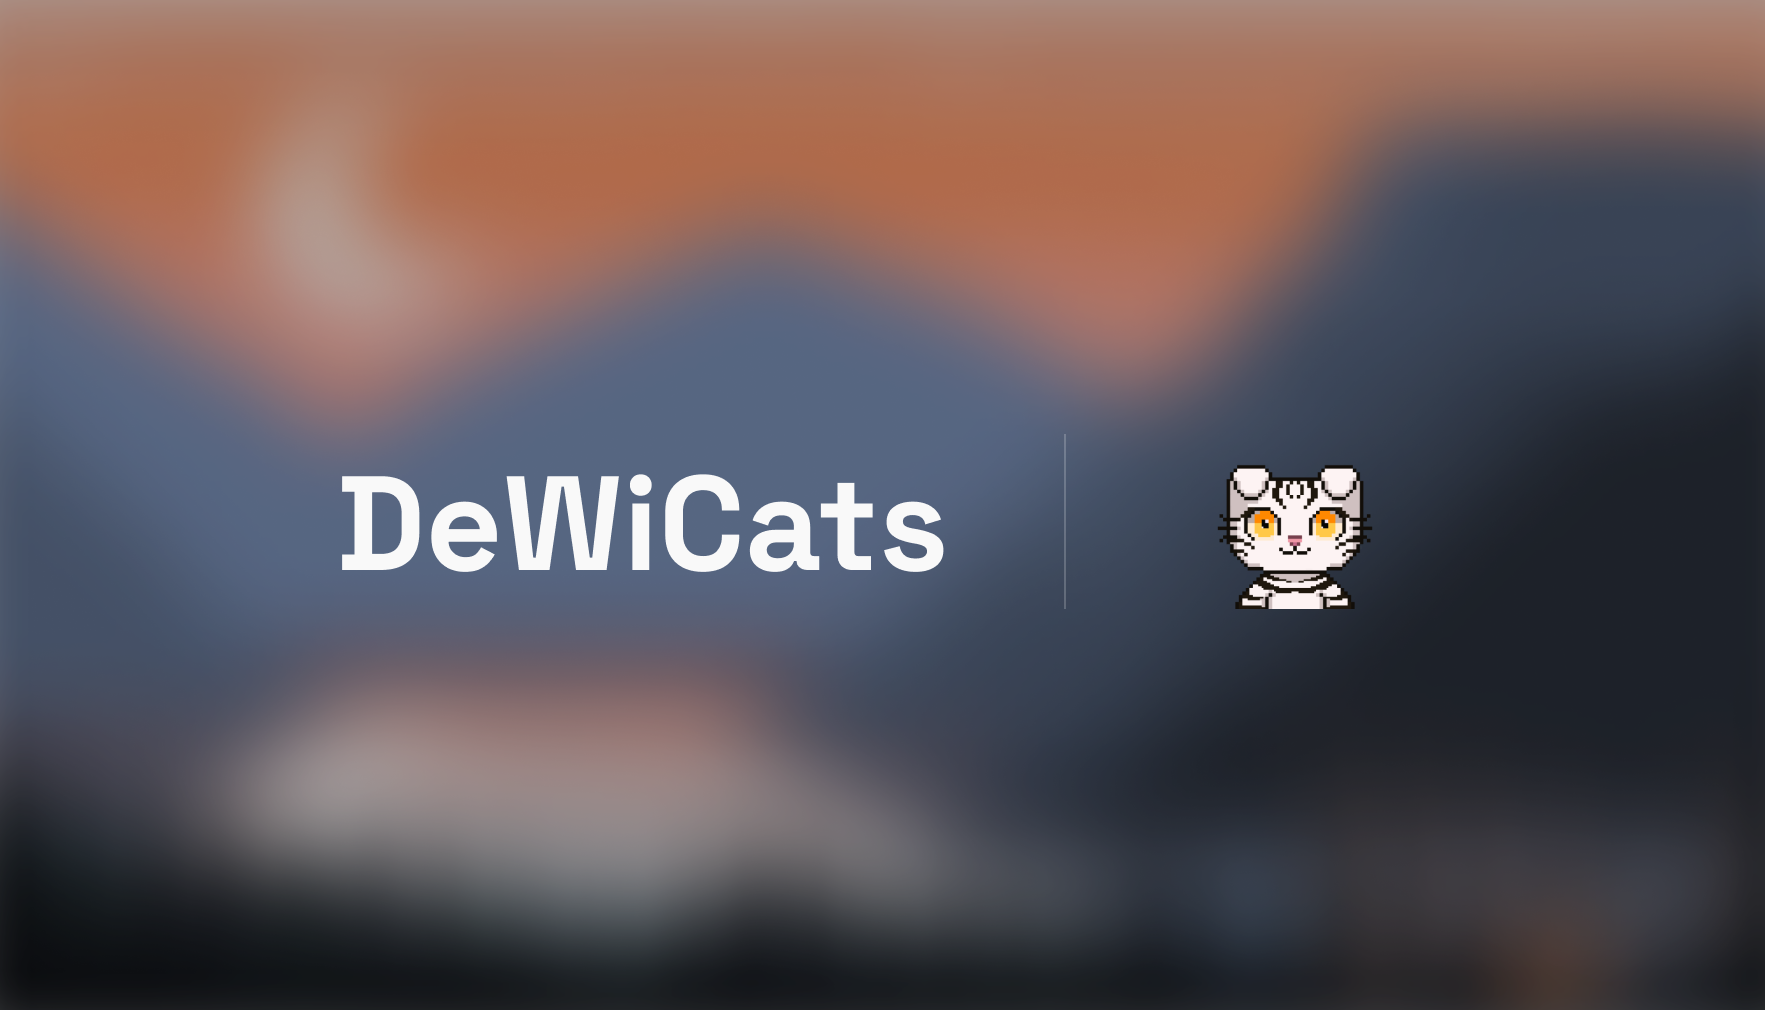
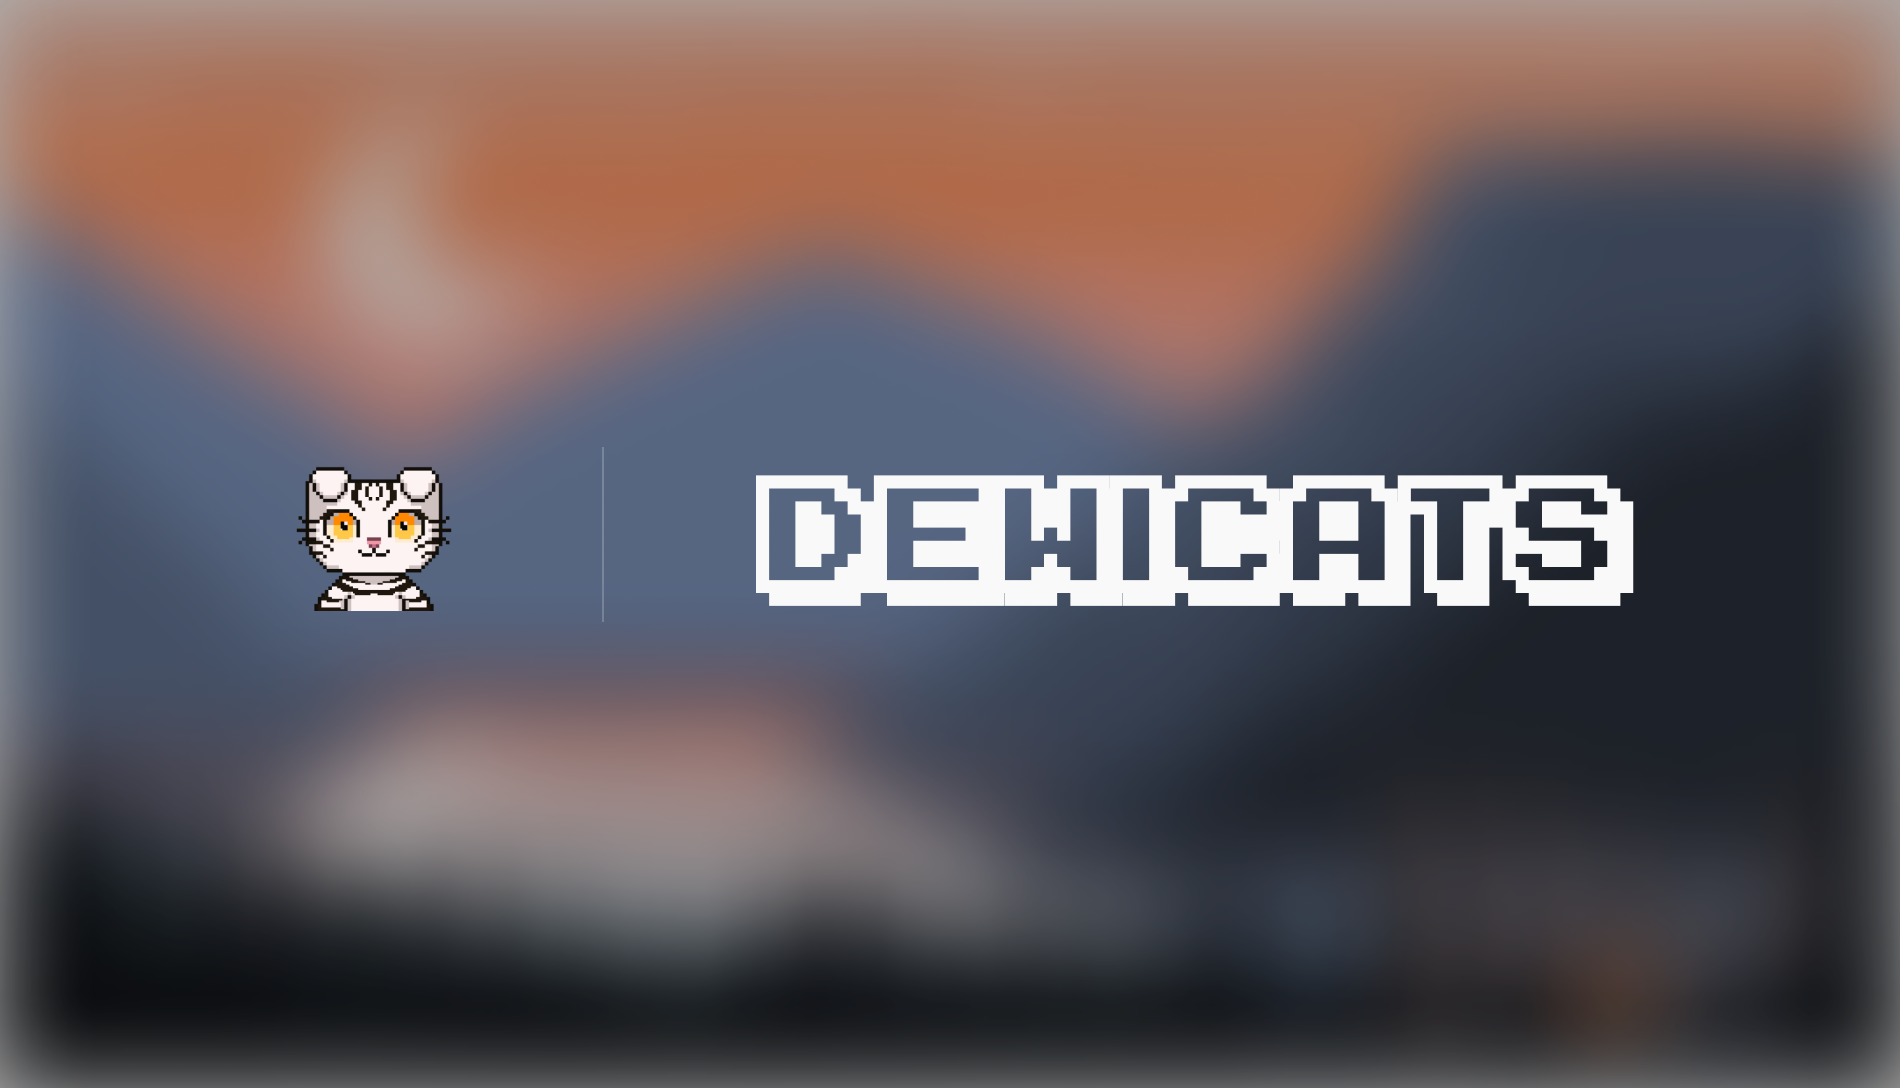
GITBOOK-2: change request with no subject merged in GitBook

diff --git a/README.md b/README.md
@@ -1,6 +1,6 @@
 ---
 description: DeWiCats Docs
-cover: .gitbook/assets/dewi-header (3).png
+cover: .gitbook/assets/dewi-header (6).png
 coverY: 0
 ---
 
